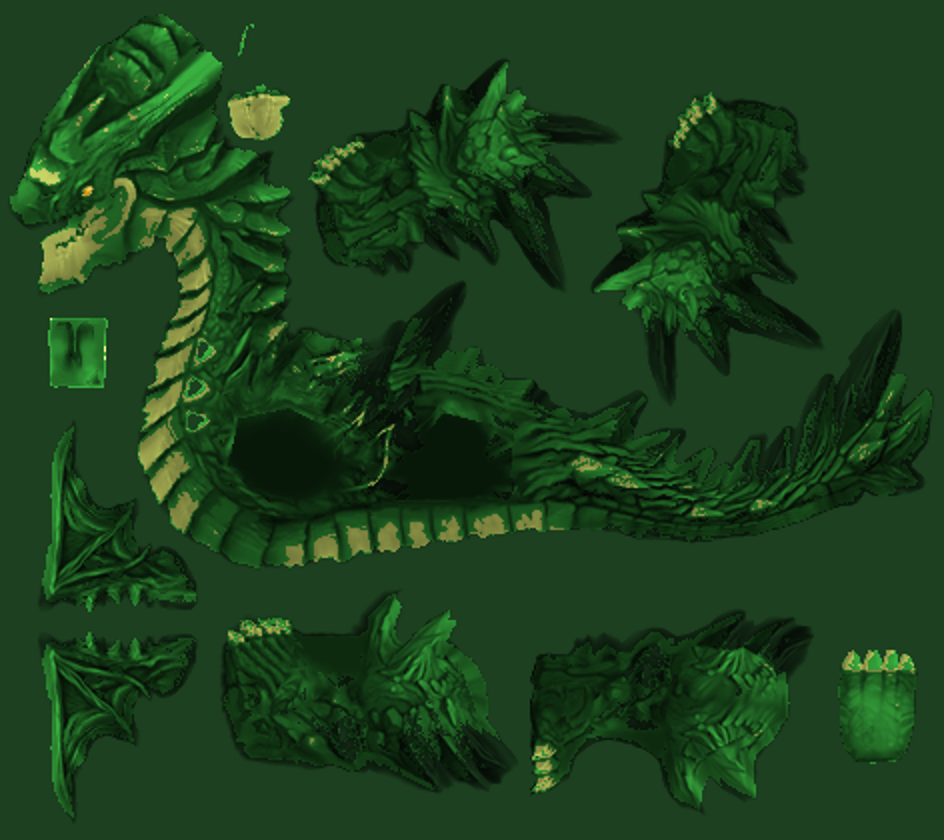
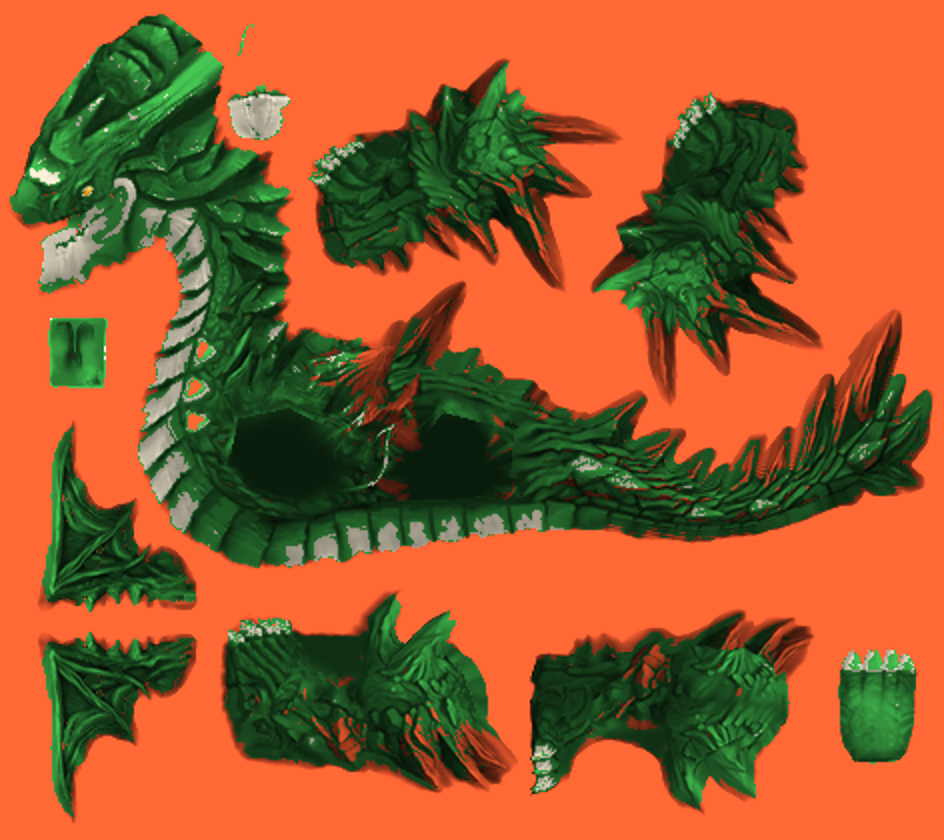
Green dragon restyled: emerald hide, cream belly, red-orange spines, amber wings
Every winged dragon gets its own membrane and wing-bone colours and a wider
span; --shots dir --dragon colour photographs one circling over the pinewoods.

Claude-Session: https://claude.ai/code/session_01K33y3oFCGMCZcYPXpgBrA4

diff --git a/game/scripts/DragonWings.cs b/game/scripts/DragonWings.cs
@@ -21,7 +21,7 @@ public partial class DragonWings : Node3D
 
     /// <param name="model">The dragon model the wings attach to (its skeleton has wing_lower.L/R bones).</param>
     /// <param name="halfSpan">How far each wing reaches, in the model's own units.</param>
-    public static DragonWings? Grow(Node3D model, float halfSpan, Color membrane, bool metallic)
+    public static DragonWings? Grow(Node3D model, float halfSpan, Color membrane, Color boneColour, bool metallic)
     {
         if (model.FindChildren("*", "Skeleton3D", true, false).OfType<Skeleton3D>().FirstOrDefault() is not { } skeleton) return null;
         var bones = new[] { ("wing_lower.L", 1f), ("wing_lower.R", -1f) }.Select(b => (skeleton.FindBone(b.Item1), b.Item2)).ToArray();
@@ -30,10 +30,10 @@ public partial class DragonWings : Node3D
         var skin = new StandardMaterial3D
         {
             AlbedoColor = membrane, Roughness = metallic ? 0.35f : 0.75f, Metallic = metallic ? 0.7f : 0,
-            CullMode = BaseMaterial3D.CullModeEnum.Disabled, BacklightEnabled = true, Backlight = membrane.Lightened(0.2f) * 0.6f,
+            CullMode = BaseMaterial3D.CullModeEnum.Disabled, BacklightEnabled = true, Backlight = membrane.Lightened(0.3f) * 0.9f,
             VertexColorUseAsAlbedo = true,
         };
-        var bone = new StandardMaterial3D { AlbedoColor = membrane.Darkened(0.45f), Roughness = metallic ? 0.3f : 0.6f, Metallic = metallic ? 0.8f : 0 };
+        var bone = new StandardMaterial3D { AlbedoColor = boneColour, Roughness = metallic ? 0.3f : 0.6f, Metallic = metallic ? 0.8f : 0 };
         var built = new DragonWings(skeleton);
         foreach (var (index, side) in bones)
         {
@@ -70,8 +70,8 @@ public partial class DragonWings : Node3D
             }
         }
         // Membrane: darker by the body, lighter towards the edges; the trailing edge dips between the fingers.
-        Tri(shoulder, elbow, wrist, 0.7f, 0.8f, 0.9f);
-        Tri(shoulder, wrist, root, 0.7f, 0.9f, 0.65f);
+        Tri(shoulder, elbow, wrist, 0.55f, 0.75f, 0.9f);
+        Tri(shoulder, wrist, root, 0.55f, 0.9f, 0.6f);
         var edge = new List<Vector3> { tips[0] };
         for (var i = 0; i < tips.Length - 1; i++)
         {
@@ -82,7 +82,7 @@ public partial class DragonWings : Node3D
         var lastMid = tips[^1].Lerp(root, 0.5f).Lerp(wrist, 0.15f);
         edge.Add(lastMid);
         edge.Add(root);
-        for (var i = 0; i < edge.Count - 1; i++) Tri(wrist, edge[i], edge[i + 1], 0.9f, 1, 1);
+        for (var i = 0; i < edge.Count - 1; i++) Tri(wrist, edge[i], edge[i + 1], 1.1f, i % 2 == 0 ? 0.8f : 0.95f, i % 2 == 0 ? 0.95f : 0.8f);
         var mesh = st.Commit();
         mesh.SurfaceSetMaterial(0, skin);
 

diff --git a/game/scripts/Models.cs b/game/scripts/Models.cs
@@ -136,11 +136,14 @@ public abstract partial class Body : Node3D
     /// <summary>A red glow for a nemesis.</summary>
     public abstract void Mark(Color colour);
 
-    /// <summary>The colour of each dragon's wing membranes.</summary>
-    static readonly Dictionary<string, Color> Membranes = new()
+    /// <summary>Each dragon's wings: the membrane, and the bones that hold it (a green dragon's are amber on green).</summary>
+    static readonly Dictionary<string, (Color Membrane, Color Bone)> Wings = new()
     {
-        ["red"] = new("#9a2418"), ["blue"] = new("#2c4ca8"), ["green"] = new("#2e7a30"), ["black"] = new("#26242a"),
-        ["gold"] = new("#d6a43c"), ["silver"] = new("#b8bec8"), ["bronze"] = new("#8e5c2c"), ["copper"] = new("#b4643a"), ["brass"] = new("#c0a050"),
+        ["red"] = (new("#b0281a"), new("#3a1410")), ["blue"] = (new("#4c7ad0"), new("#1c2c60")),
+        ["green"] = (new("#d97a2a"), new("#3e7a34")), ["black"] = (new("#3a2c44"), new("#141216")),
+        ["gold"] = (new("#e8b44a"), new("#9a6a1c")), ["silver"] = (new("#d4dae4"), new("#8a909c")),
+        ["bronze"] = (new("#3c8a7a"), new("#7a4c22")), ["copper"] = (new("#d07a44"), new("#5a8a7a")),
+        ["brass"] = (new("#d8b860"), new("#8a6a2a")),
     };
 
     /// <summary>
@@ -151,7 +154,7 @@ public abstract partial class Body : Node3D
     {
         var metallic = colour is "gold" or "silver" or "bronze" or "copper" or "brass";
         if (Creature.Create("dragon.glb", 4.5f, coat: $"dragons/{colour}.png", metallic: metallic) is not { } dragon) return Beast.Bear();
-        if (Membranes.TryGetValue(colour, out var membrane)) dragon.SpreadWings(membrane, metallic);
+        if (Wings.TryGetValue(colour, out var wings)) dragon.SpreadWings(wings.Membrane, wings.Bone, metallic);
         return dragon;
     }
 
@@ -680,9 +683,9 @@ public partial class Creature : Animal
     float _speed;
 
     /// <summary>Gives a dragon its great wings (it can fly from now on).</summary>
-    public void SpreadWings(Color membrane, bool metallic)
+    public void SpreadWings(Color membrane, Color bone, bool metallic)
     {
-        _wings = DragonWings.Grow(Model, 4.5f * 1.25f / Model.Scale.X, membrane, metallic);
+        _wings = DragonWings.Grow(Model, 4.5f * 1.55f / Model.Scale.X, membrane, bone, metallic);
     }
 
     public bool Winged => _wings is not null;

diff --git a/game/scripts/Shots.cs b/game/scripts/Shots.cs
@@ -1,4 +1,5 @@
 using Godot;
+using Tristinwold.Gameplay;
 using Tristinwold.World;
 
 namespace Tristinwold.Game;
@@ -7,13 +8,14 @@ namespace Tristinwold.Game;
 /// Takes a tour of the world and saves screenshots, for checking how it looks without playing:
 ///   godot --path game -- --shots /some/folder --server off
 /// </summary>
-public partial class Shots(Main main, string dir, bool quick = false) : Node
+public partial class Shots(Main main, string dir, bool quick = false, string? dragon = null) : Node
 {
     public override async void _Ready()
     {
         DirAccess.MakeDirRecursiveAbsolute(dir);
         var (p, w) = (main.PlayerNode, main.World);
         await Frames(60);
+        if (dragon is not null) { await Dragon(dragon); return; }
         if (quick) { await Quick(); return; }
 
         // Tristinwold from the Gallows Perch, looking into the city.
@@ -101,6 +103,33 @@ public partial class Shots(Main main, string dir, bool quick = false) : Node
                 GetTree().Quit();
                 return;
             }
+        GetTree().Quit();
+    }
+
+    /// <summary>A dragon of one colour circling over the pinewoods, seen from below: --shots dir --dragon green</summary>
+    async Task Dragon(string colour)
+    {
+        var p = main.PlayerNode;
+        var spot = new Vector3(-150, 0, -1500);
+        await Go(spot, 120);
+        var ground = City.FloorAt(spot);
+        var e = Enemy.Create(Bestiary.Get("dragon_" + colour), spot with { Y = ground + 1 } + new Vector3(0, 0, -30));
+        e.Roam = 6;
+        main.AddEnemy(e);
+        e.TakeOff(16, 600);
+        p.Frozen = true;
+        var cam = new Camera3D { Far = 2000, Fov = 55 };
+        main.AddChild(cam);
+        cam.MakeCurrent();
+        for (var i = 0; i < 4; i++)
+        {
+            await Frames(90 + i * 37);
+            var at = e.GlobalPosition + new Vector3(0, 3, 0);
+            var from = new Vector3(at.X + 14, ground + 2.5f, at.Z + 22); // from the ground, looking up
+            cam.GlobalPosition = from;
+            cam.LookAt(at, Vector3.Up);
+            await Shot($"dragon-{colour}-{i}");
+        }
         GetTree().Quit();
     }
 

diff --git a/game/scripts/Main.cs b/game/scripts/Main.cs
@@ -277,7 +277,7 @@ public partial class Main : Node3D
         if (TouchMode) EnableTouch();
         Connect();
         if (_args.ContainsKey("selftest")) AddChild(new SelfTest(this));
-        else if (_args.TryGetValue("shots", out var shots)) AddChild(new Shots(this, shots, quick: _args.ContainsKey("quick")));
+        else if (_args.TryGetValue("shots", out var shots)) AddChild(new Shots(this, shots, quick: _args.ContainsKey("quick"), dragon: _args.GetValueOrDefault("dragon")));
         else _hud.Toast("Tristinwold. M: map   J: journal   E: talk   F10: the shared world");
     }
 

diff --git a/tools/creatures/dragon_colours.py b/tools/creatures/dragon_colours.py
@@ -19,7 +19,7 @@ OUT = os.path.join(os.path.dirname(os.path.dirname(os.path.dirname(os.path.abspa
 COLOURS = {
     "red": ((150, 26, 18), (214, 160, 90), (40, 18, 16)),
     "blue": ((32, 70, 170), (150, 196, 230), (20, 26, 48)),
-    "green": ((36, 110, 40), (190, 200, 96), (18, 40, 20)),
+    "green": ((44, 124, 52), (236, 228, 204), (176, 66, 34)),  # emerald, a cream belly, red-orange spines
     "black": ((30, 28, 34), (96, 92, 80), (12, 12, 14)),
     "white": ((220, 230, 240), (240, 246, 252), (150, 176, 200)),
     "gold": ((214, 160, 48), (250, 224, 140), (130, 86, 20)),

diff --git a/game/scripts/Actors.cs b/game/scripts/Actors.cs
@@ -349,6 +349,14 @@ public partial class Enemy : Fighter
         return move;
     }
 
+    /// <summary>Sends a winged dragon up to circle at a height for a while (a show of strength, or a photograph).</summary>
+    public void TakeOff(float altitude, double seconds = 60)
+    {
+        if (!CanFly) return;
+        _altitude = altitude;
+        _flightClock = seconds;
+    }
+
     /// <summary>Flying: climb or sink towards the wanted height above the ground, no gravity.</summary>
     void Hover(double delta, Vector3 move)
     {
